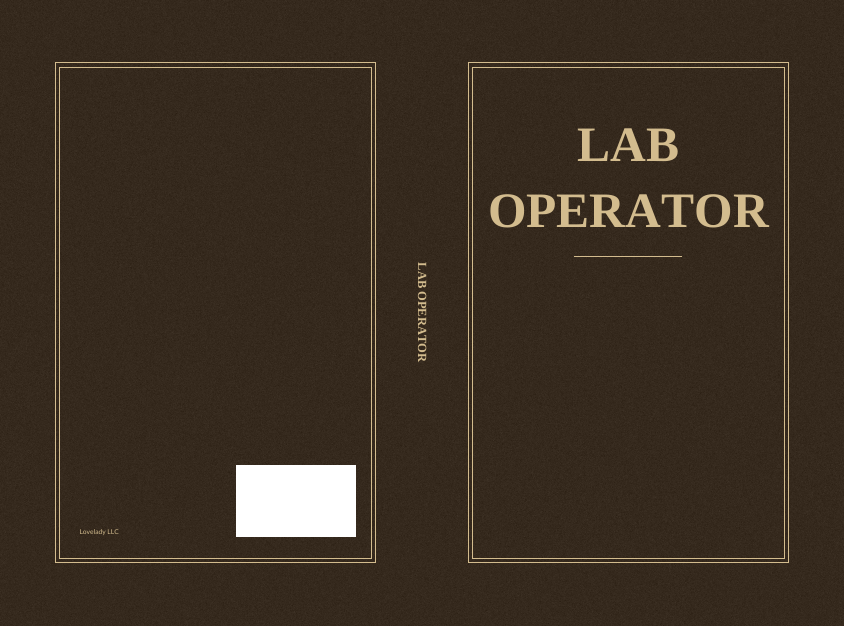
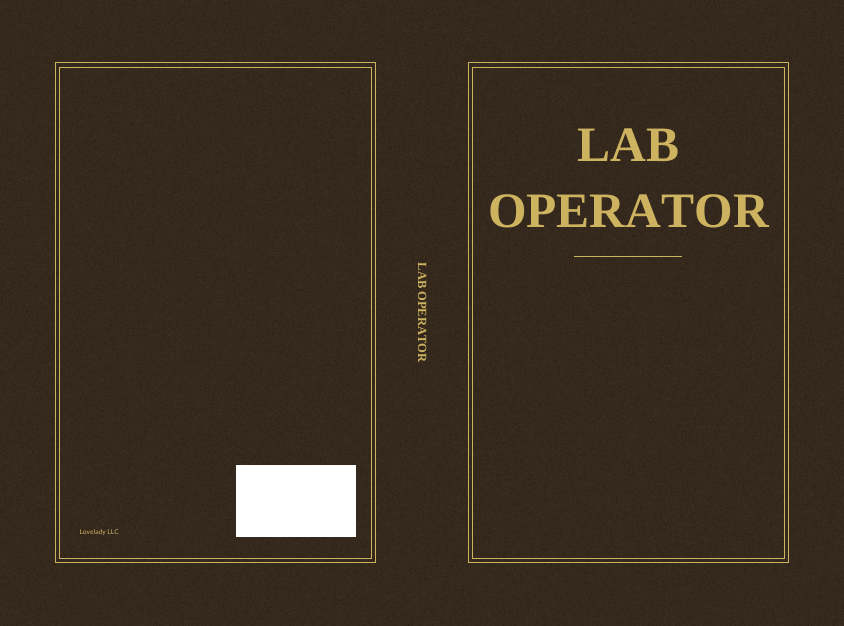
Jarvis notes and feedback summary sync

diff --git a/memory/inbox/queue-results.md b/memory/inbox/queue-results.md
@@ -1,38 +1,4 @@
-og log (satellite restarts)
-Nov 04 19:42:20 LoveladyMainAiHub python3[35465]: pihole dns dead, restarting
-Nov 04 19:43:17 LoveladyMainAiHub python3[35465]: pihole dns dead, restarting
-Nov 04 19:44:14 LoveladyMainAiHub python3[35465]: pihole dns dead, restarting
-Nov 04 19:45:10 LoveladyMainAiHub python3[35465]: pihole dns dead, restarting
-Nov 04 19:46:07 LoveladyMainAiHub python3[35465]: pihole dns dead, restarting
-Nov 04 19:47:04 LoveladyMainAiHub python3[35465]: pihole dns dead, restarting
-Nov 04 19:48:00 LoveladyMainAiHub python3[35465]: pihole dns dead, restarting
-Nov 04 19:48:57 LoveladyMainAiHub python3[35465]: pihole dns dead, restarting
-Nov 04 19:49:51 LoveladyMainAiHub python3[35465]: pihole dns dead, restarting
-Nov 04 19:50:15 LoveladyMainAiHub python3[35465]: pihole dns dead, restarting
-Nov 05 14:58:19 LoveladyMainAiHub python3[35465]: stuck in listening for 40s, restarting satellite
-Nov 05 15:01:35 LoveladyMainAiHub python3[35465]: stuck in listening for 44s, restarting satellite
-(exit 0)
-```
-
-## 2026-11-05 15:07:03 tasks/queue/032-home-timeline.sh
-```
-== satellite unit
-ExecStart=/bin/bash /home/kylarlovelady/wyoming-satellite/run-hub.sh
-Restart=always
-RestartSec=3
-== watchdog unit
-ExecStart=/usr/bin/python3 /usr/local/bin/hub-watchdog.py
-== HA voice pipeline events (last 90 min)
-2026-11-05 14:57:38.136 DEBUG (MainThread) [homeassistant.components.conversation.chat_log] Adding user content: UserContent(role='user', content=' What do you know about Shari?', attachments=None, created=date
-2026-11-05 14:58:52.352 DEBUG (MainThread) [homeassistant.components.conversation.chat_log] Adding user content: UserContent(role='user', content=' What do you know about Shari?', attachments=None, created=date
-2026-11-05 14:58:54.445 DEBUG (MainThread) [homeassistant.components.conversation.chat_log] Chat Log opened but no assistant message was added, ignoring update
-2026-11-05 15:00:18.370 DEBUG (MainThread) [homeassistant.components.conversation.chat_log] Adding user content: UserContent(role='user', content=' What can you tell me about Shari?', attachments=None, created=
-2026-11-05 15:00:19.925 DEBUG (MainThread) [homeassistant.components.conversation.chat_log] Chat Log opened but no assistant message was added, ignoring update
-2026-11-05 15:00:51.274 DEBUG (MainThread) [homeassistant.components.conversation.chat_log] Adding user content: UserContent(role='user', content=' Do you know who I am?', attachments=None, created=datetime.dat
-(exit 0)
-```
-
-## 2026-11-05 15:10:01 tasks/queue/033-satellite-settings.sh
+.sh
 ```
 == run-hub.sh
 #!/bin/bash
@@ -566,5 +532,51 @@ total 2668
 drwxrwxr-x  2 kylarlovelady kylarlovelady    4096 Nov  5 17:50 .
 drwxrwxr-x 10 kylarlovelady kylarlovelady    4096 Nov  5 17:50 ..
 -rw-rw-r--  1 kylarlovelady kylarlovelady  375809 Nov  5 17:56 cover-guides.png
+(exit 0)
+```
+
+## 2026-11-05 18:31:01 tasks/queue/047-kdp-same-yellow.sh
+```
+fonts found: ['Bitstream Vera', 'Caladea', 'Carlito', 'DejaVu Sans', 'DejaVu Serif', 'FreeSans', 'FreeSerif', 'Lato', 'Liberation Mono', 'Liberation Sans', 'Liberation Serif', 'Open Sans', 'Playfair Display', 'Roboto']
+title font: Liberation Serif | interior font: Lato
+== process-operator-a FAILS: none | spine 0.489
+== process-operator-b FAILS: none | spine 0.489
+== process-operator-c FAILS: none | spine 0.489
+== process-operator-e FAILS: none | spine 0.489
+== lab-operator-a FAILS: none | spine 0.489
+== lab-operator-b FAILS: none | spine 0.489
+== lab-operator-c FAILS: none | spine 0.489
+== lab-operator-e FAILS: none | spine 0.489
+sheet done
+-rw-rw-r-- 1 kylarlovelady kylarlovelady 2050548 Nov  5 18:32 /home/kylarlovelady/starship/memory/inbox/kdp-preview/contact-sheet.png
+
+/home/kylarlovelady/starship/memory/inbox/kdp-preview/lab-operator-a:
+total 2704
+drwxrwxr-x  2 kylarlovelady kylarlovelady    4096 Nov  5 17:49 .
+drwxrwxr-x 10 kylarlovelady kylarlovelady    4096 Nov  5 17:50 ..
+-rw-rw-r--  1 kylarlovelady kylarlovelady  381632 Nov  5 18:31 cover-guides.png
+-rw-rw-r--  1 kylarlovelady kylarlovelady 1382931 Nov  5 18:31 cover-hi.png
+-rw-rw-r--  1 kylarlovelady kylarlovelady  359835 Nov  5 18:31 cover.png
+-rw-rw-r--  1 kylarlovelady kylarlovelady  613909 Nov  5 18:31 front.png
+-rw-rw-r--  1 kylarlovelady kylarlovelady    7365 Nov  5 18:31 page1.png
+-rw-rw-r--  1 kylarlovelady kylarlovelady    1569 Nov  5 18:31 page2.png
+-rw-rw-r--  1 kylarlovelady kylarlovelady    1593 Nov  5 17:46 page3.png
+
+/home/kylarlovelady/starship/memory/inbox/kdp-preview/lab-operator-b:
+total 2660
+drwxrwxr-x  2 kylarlovelady kylarlovelady    4096 Nov  5 17:50 .
+drwxrwxr-x 10 kylarlovelady kylarlovelady    4096 Nov  5 17:50 ..
+-rw-rw-r--  1 kylarlovelady kylarlovelady  375111 Nov  5 18:32 cover-guides.png
+-rw-rw-r--  1 kylarlovelady kylarlovelady 1359593 Nov  5 18:32 cover-hi.png
+-rw-rw-r--  1 kylarlovelady kylarlovelady  352917 Nov  5 18:32 cover.png
+-rw-rw-r--  1 kylarlovelady kylarlovelady  608559 Nov  5 18:32 front.png
+-rw-rw-r--  1 kylarlovelady kylarlovelady    7365 Nov  5 18:32 page1.png
+-rw-rw-r--  1 kylarlovelady kylarlovelady    1569 Nov  5 18:32 page2.png
+
+/home/kylarlovelady/starship/memory/inbox/kdp-preview/lab-operator-c:
+total 2664
+drwxrwxr-x  2 kylarlovelady kylarlovelady    4096 Nov  5 17:50 .
+drwxrwxr-x 10 kylarlovelady kylarlovelady    4096 Nov  5 17:50 ..
+-rw-rw-r--  1 kylarlovelady kylarlovelady  375566 Nov  5 18:32 cover-guides.png
 (exit 0)
 ```

diff --git a/memory/inbox/pi-status.md b/memory/inbox/pi-status.md
@@ -2,7 +2,7 @@
 Freshness = the git commit time of this file. Ages below are counted at the moment of the snapshot.
 
 ## Pi
-- up 1 week, 4 days, 7 hours, 30 minutes; temp 40.0'C; throttled flags 0x0 (0x0 is clean); memory 58%; disk 10%
+- up 1 week, 4 days, 7 hours, 33 minutes; temp 42.2'C; throttled flags 0x0 (0x0 is clean); memory 58%; disk 10%
 
 ## Services
 - active: market-agent, phone-voice, tailscaled, docker, hub-dashboard, hub-devices, hub-kdp, hub-lights, hub-memlog, hub-oled, hub-outage, hub-satellite, hub-voice, hub-watchdog
@@ -11,13 +11,13 @@ Freshness = the git commit time of this file. Ages below are counted at the mome
 - containers: openwakeword Up 6 days; whisper Up 6 days (healthy); piper Up 6 days (healthy); pihole Up 23 hours (healthy); homeassistant Up 17 hours
 
 ## Sync and schedule
-- Pi repo copy at: 37314a5 30 minutes ago: Jarvis notes and feedback summary sync
-- last notes sync result: push failed (run tasks/pi_push_setup.sh)
+- Pi repo copy at: c3b080f 2 minutes ago: Jarvis notes and feedback summary sync
+- last notes sync result: notes pushed to the repo
 - cron jobs (script names): crew-update.sh, market-watchdog, market-supervisor, market-lab, memory_sync.sh, starship-alerts, kalshi-data-sync, task-queue
 
 ## Markets agent (practice money)
 - agent data last written: 0 min ago; mode shown by the agent: ?; live-run flags: {"live_run_active": false, "last_run_live": false}
-- supervisor report (22 min ago), first lines:
+- supervisor report (25 min ago), first lines:
     MARKET AGENT PROGRESS  Thu 05 Nov 18:07
     
     1. ALIVE
